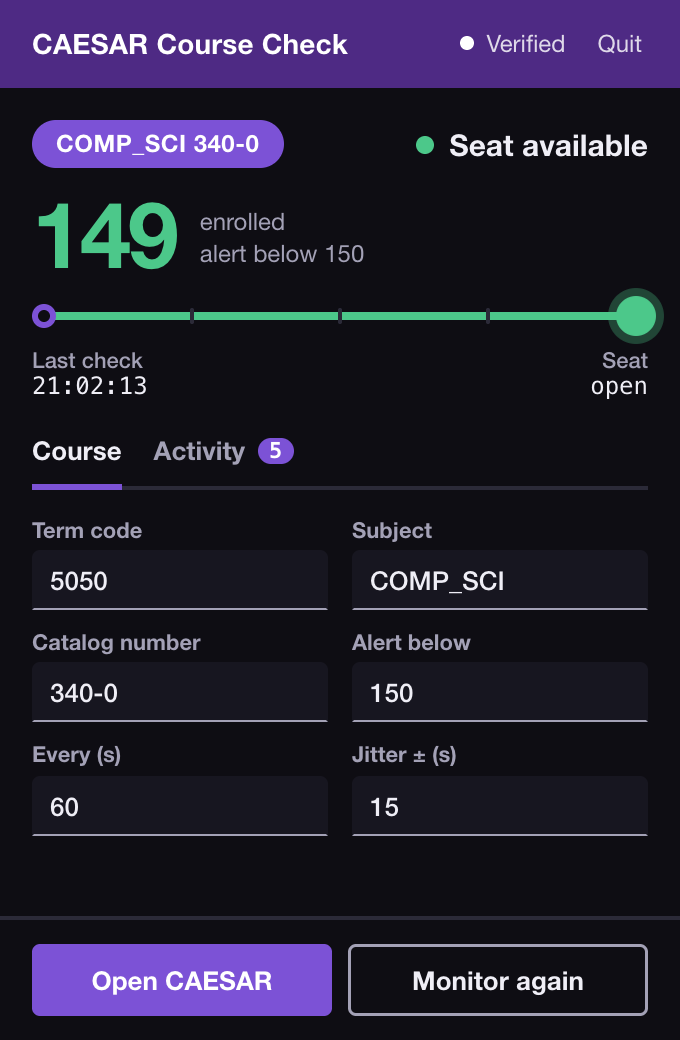
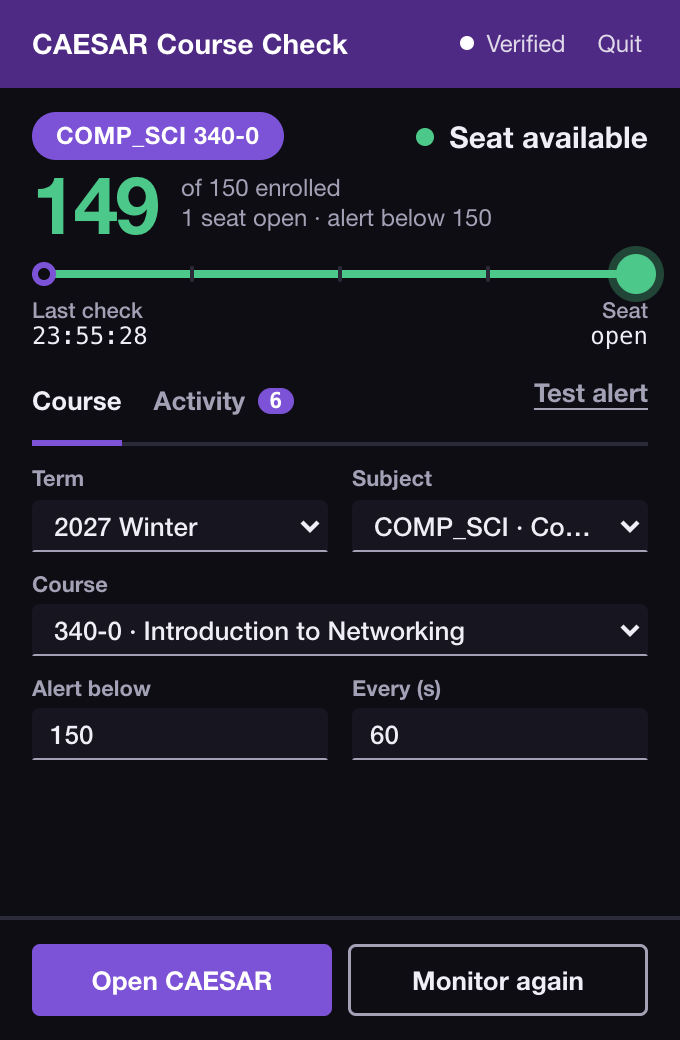
Update README and screenshots, add MIT license

diff --git a/README.md b/README.md
@@ -15,9 +15,11 @@ It lives in the **macOS menu bar** or the **Windows system tray**: click the ico
 Theme: **Purple Line wayfinding**, after the CTA Purple Line out of Evanston. A saturated Northwestern-purple header band, a course roundel, state as station bullets, and a route strip whose "train" is the time since the last check. Light mode is the daytime platform, dark mode the night platform. The Activity log is a line of stops.
 
 ## Features
-- Checks enrollment every minute or so (with a random ±15 s jitter) in a **headless** Chrome.
-- Alerts with a sound, a macOS notification and by opening the popover when enrollment drops below your threshold.
-- Pick the term, subject and course from dropdowns (or type your own). The alert threshold is set to the class capacity on the first check, and catalog numbers 400+ search The Graduate School automatically.
+- Checks enrollment about once a minute (a random ±15 s jitter is added) in a **headless** Chrome.
+- Alerts with a sound, a macOS notification and by opening the popover when a seat opens, meaning enrollment drops below the class capacity.
+- **Dropdowns for term, subject and course**, built from the scraped course catalog (each has an "Other…" option if you want to type your own).
+- **Shows open seats:** the first check reads the class capacity, sets "Alert below" to it, and the header shows enrolled / capacity and seats open.
+- **Graduate courses just work:** catalog numbers 400 and up switch CAESAR's School to The Graduate School automatically.
 - **Lives in the menu bar / tray:** no main window and no Dock icon. macOS shows a cap icon plus the live enrollment number while monitoring; Windows shows a tray icon with a flyout that hides when you click away. Monitoring keeps running while the popover is closed.
 - Light and dark mode.
 
@@ -75,6 +77,19 @@ uv run python packaging/build.py
 
 PyInstaller can't cross-compile, so build the Windows `.exe` on Windows or with the included GitHub Actions workflow (`.github/workflows/build.yml`).
 
+## Course catalog
+The dropdowns read `caesar_checker/catalog.json`, which is built from the scraper's output in `data/`. To refresh it for a new term:
+
+```bash
+uv run python scraper/main.py            # scrape class-descriptions.northwestern.edu into data/ (slow)
+uv run python scraper/build_catalog.py   # rebuild caesar_checker/catalog.json, then rebuild the app
+```
+
+> The School dropdown and the class-capacity field use PeopleSoft element IDs that haven't been confirmed against the live CAESAR page. If either isn't found, the Activity log says so and the app falls back to the default School and your typed "Alert below" number.
+
 ## Where data is stored
 Session, saved settings and logs live in the per-user data folder `CaesarCourseCheck`
 (`~/Library/Application Support/` on macOS, `%LOCALAPPDATA%` on Windows). Delete it to forget the saved captcha session.
+
+## License
+[MIT](LICENSE)
